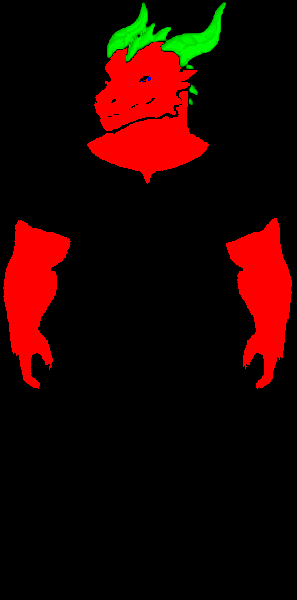
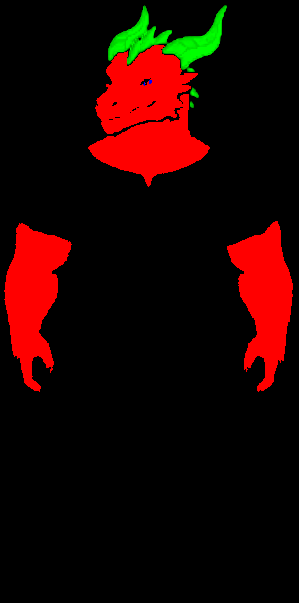
Draconato: 4 formatos de chifre em verde-chroma

diff --git a/js/ruleset.js b/js/ruleset.js
@@ -167,7 +167,7 @@
       barba: [['Cheia curta', null], ['Longa', 'longa'], ['Trançada', 'trancada'], ['Bifurcada', 'bifurcada'], ['Bigodão', 'bigodao']]
     },
     draconato: {                                // o penteado do draconato sao os chifres (sem barba)
-      penteado: [['Chifres curvos', null]]
+      penteado: [['Chifres curvos', null], ['Carneiro', 'carneiro'], ['Retos', 'retos'], ['Coroa', 'coroa'], ['Crista', 'crista']]
     },
     meio_orc: {
       penteado: [['Rabo e laterais raspadas', null], ['Moicano', 'moicano'], ['Careca', 'careca'], ['Tranças', 'trancas'], ['Solto', 'solto']],

diff --git a/index.html b/index.html
@@ -203,7 +203,7 @@
   <script src="js/palace.js?v=69"></script>
   <script src="js/critters_draw.js?v=1"></script>
   <script src="js/fauna.js?v=23"></script>
-  <script src="js/ruleset.js?v=20"></script>
+  <script src="js/ruleset.js?v=21"></script>
   <script src="js/character_creation.js?v=13"></script>
   <script src="js/game.js?v=82"></script>
 </body>
